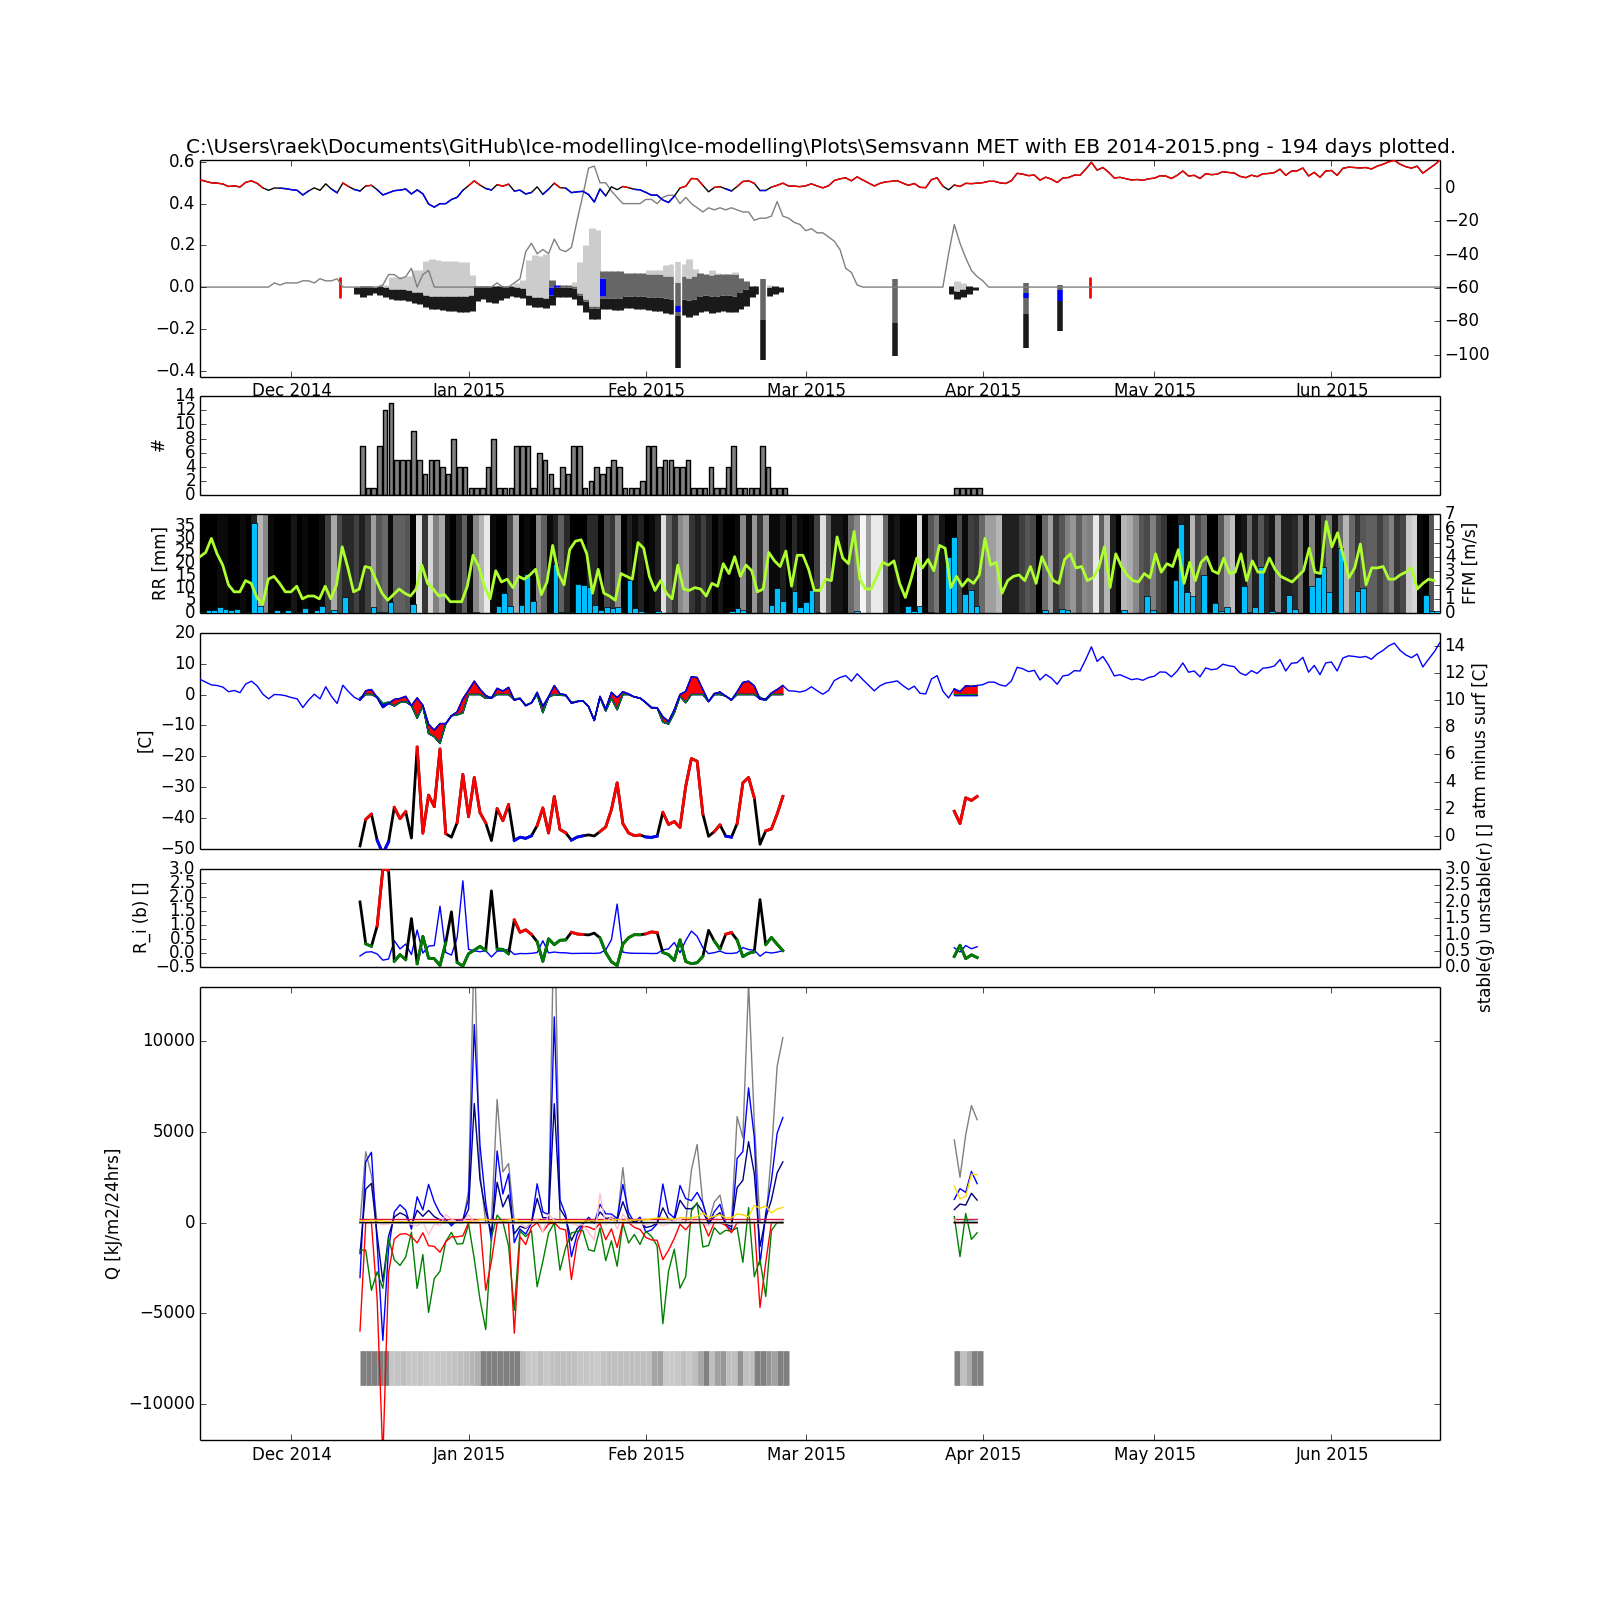
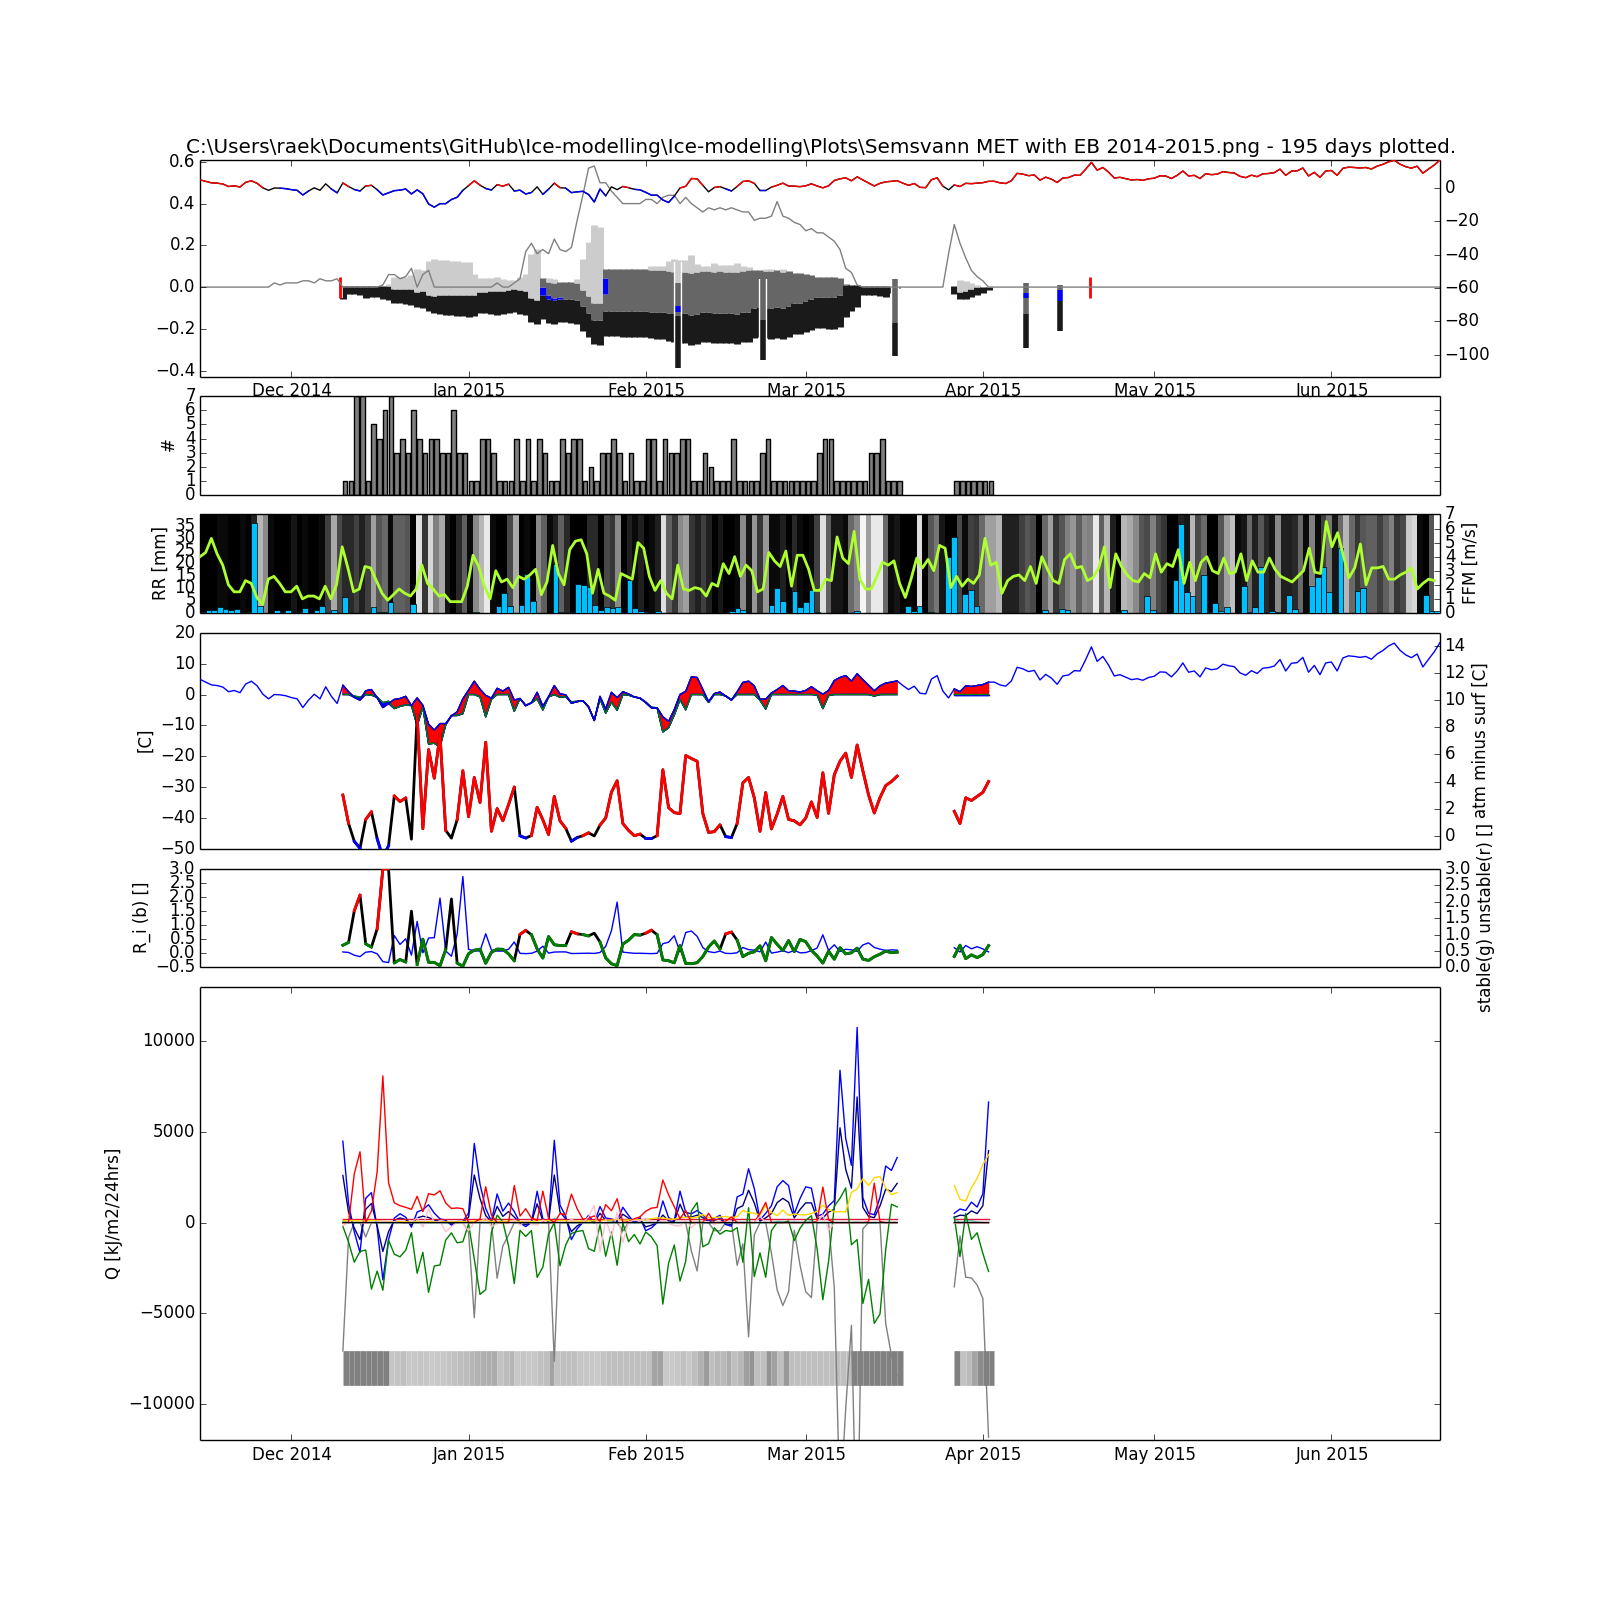
now with error in NR routine...

diff --git a/Ice-modelling/doenergybalance.py b/Ice-modelling/doenergybalance.py
@@ -192,7 +192,7 @@ def temp_surface_from_eb(
 
     # calculate energy balances around surface temp to se development.
     debug = False
-    #if (ice_column.date).date() == dt.date(2013, 2, 24): debug = True
+    if (ice_column.date).date() == dt.date(2012, 12, 16):    debug = True
     if debug == True:
         import numpy as np
         temps_sfc = np.linspace(temp_sfc-10., temp_sfc+10.)
@@ -231,6 +231,7 @@ def temp_surface_from_eb(
             num_iterations += 1
             eb_condition = eb
 
+
     if iteration_method == "Newton-Raphson":
 
         temp_prev = temp_sfc
@@ -243,7 +244,50 @@ def temp_surface_from_eb(
         d_eb = (eb-eb_prev)/(temp-temp_prev)
         eb_sign = abs(eb)/eb
 
-        eb_condition = eb_prev
+        while abs(eb_condition) > error:
+
+            # Update previous iteration values
+            eb_sign_prev = abs(eb_prev)/eb_prev
+            temp_temp_prev = temp_prev
+            temp_prev = temp
+            eb_prev = eb
+            d_eb_prev = d_eb
+
+            # if eb sign changes, half the temp step and get new eb
+            if eb_sign_prev != eb_sign:
+                temp = (temp_prev + temp_temp_prev)/2
+
+            # else use the Newton Raphson with derivative
+            else:
+                temp = temp_prev - eb_prev/d_eb_prev
+
+            eb = energy_balance_from_temp_sfc_value(utm33_x, utm33_y, ice_column, temp_atm, prec, prec_snow, albedo_prim, time_span_in_sec, temp_surface=temp, age_factor_tau=age_factor_tau, cloud_cover=cloud_cover, wind=wind, pressure_atm=pressure_atm)
+            eb_sign = abs(eb)/eb
+            d_eb = (eb-eb_prev)/(temp-temp_prev)
+
+            num_iterations += 1
+            eb_condition = eb
+
+        # Get the full object. Note that in earlier steps only the energy balance value is requested.
+        eb_obj = energy_balance_from_temp_sfc(
+            utm33_x, utm33_y, ice_column, temp_atm, prec, prec_snow, albedo_prim, time_span_in_sec,
+            temp_surface=temp, age_factor_tau=age_factor_tau, cloud_cover=cloud_cover, wind=wind,
+            pressure_atm=pressure_atm)
+
+
+    if iteration_method == "Newton-Raphson-II":
+
+        temp_prev = temp_sfc
+        eb_prev = energy_balance_from_temp_sfc_value(utm33_x, utm33_y, ice_column, temp_atm, prec, prec_snow, albedo_prim, time_span_in_sec, temp_surface=temp_prev, age_factor_tau=age_factor_tau, cloud_cover=cloud_cover, wind=wind, pressure_atm=pressure_atm)
+
+        # if eb is positive, to much energy is coming inn and thus the surface temp is to low.
+        delta_t = eb_prev/50000
+        temp = temp_prev + delta_t
+        eb = energy_balance_from_temp_sfc_value(utm33_x, utm33_y, ice_column, temp_atm, prec, prec_snow, albedo_prim, time_span_in_sec, temp_surface=temp, age_factor_tau=age_factor_tau, cloud_cover=cloud_cover, wind=wind, pressure_atm=pressure_atm)
+        d_eb = (eb-eb_prev)/(temp-temp_prev)
+        eb_sign = abs(eb)/eb
+
+        #eb_condition = eb_prev
 
         while abs(eb_condition) > error:
 
@@ -259,24 +303,21 @@ def temp_surface_from_eb(
                 melting = True
                 # calculate new eb with temp equalz freezing
                 temp = 0.
-                eb = energy_balance_from_temp_sfc_value(utm33_x, utm33_y, ice_column, temp_atm, prec, prec_snow, albedo_prim, time_span_in_sec, temp_surface=temp, age_factor_tau=age_factor_tau, cloud_cover=cloud_cover, wind=wind, pressure_atm=pressure_atm)
-                eb_sign = abs(eb)/eb
-                d_eb = (eb-eb_prev)/(temp-temp_prev)
+
             else:
                 melting = False
+
                 # if eb sign changes, half the temp step and get new eb
                 if eb_sign_prev != eb_sign:
                     temp = (temp_prev + temp_temp_prev)/2
-                    eb = energy_balance_from_temp_sfc_value(utm33_x, utm33_y, ice_column, temp_atm, prec, prec_snow, albedo_prim, time_span_in_sec, temp_surface=temp, age_factor_tau=age_factor_tau, cloud_cover=cloud_cover, wind=wind, pressure_atm=pressure_atm)
-                    eb_sign = abs(eb)/eb
-                    d_eb = (eb-eb_prev)/(temp-temp_prev)
 
                 # else use the Newton Raphson with derivative
                 else:
                     temp = temp_prev - eb_prev/d_eb_prev
-                    eb = energy_balance_from_temp_sfc_value(utm33_x, utm33_y, ice_column, temp_atm, prec, prec_snow, albedo_prim, time_span_in_sec,  temp_surface=temp, age_factor_tau=age_factor_tau, cloud_cover=cloud_cover, wind=wind, pressure_atm=pressure_atm)
-                    eb_sign = abs(eb)/eb
-                    d_eb = (eb-eb_prev)/(temp-temp_prev)
+
+            eb = energy_balance_from_temp_sfc_value(utm33_x, utm33_y, ice_column, temp_atm, prec, prec_snow, albedo_prim, time_span_in_sec, temp_surface=temp, age_factor_tau=age_factor_tau, cloud_cover=cloud_cover, wind=wind, pressure_atm=pressure_atm)
+            eb_sign = abs(eb)/eb
+            d_eb = (eb-eb_prev)/(temp-temp_prev)
 
             num_iterations += 1
             eb_condition = eb
@@ -297,8 +338,9 @@ def temp_surface_from_eb(
     eb_obj.add_iterations(num_iterations)
 
     # transfer energy to surface melt if we have melting conditions
-    if eb_obj.temp_surface == 0.:
-        eb_obj.add_surface_melt(-eb_obj.EB)
+    if eb_obj.temp_surface > 0.:
+        eb_obj.add_surface_melt(-1 * eb_obj.EB)
+        eb_obj.temp_surface = 0.
         eb_obj.EB = 0.
     else:
         eb_obj.add_surface_melt(0.)
@@ -661,19 +703,21 @@ def get_sensible_and_latent_heat(temp_atm, temp_surface, time_span_in_sec, ice_c
     if wind is None:
         wind = const.avg_wind_const
 
-    c_air = const.c_air         # specific heatcapacity air
-    rho_air = const.rho_air     # density of air
-    zu = 10                     # Høyde på vind målinger
-    zt = 10                     # Høyde på lufttemperatur målinger
-    zm = const.z_snow           # ruhetsparameter for snø
+    c_air = const.c_air             # specific heatcapacity air
+    rho_air = const.rho_air         # density of air
+    k = const.von_karmans_const     # von Karmans konstant
+    zu = 10                         # Høyde på vind målinger
+    zt = 10                         # Høyde på lufttemperatur målinger
+    #z_0 = const.z_snow              # ruhetsparameter for snø
+    z_0 = ice_column.column[0].get_surface_roughness()
+    z_tau = z_0 * 10**-3            # surf roughness for sensible heat
     d = ice_column.get_snow_height()    # Zeroplane displecement for snow. I.e correction for snowdepth.
-    zh = const.z_vapour          # varme og damp ruhets
-    k = const.von_karmans_const  # von Karmans konstant
+    zh = const.z_vapour             # varme og damp ruhets
 
-    common = k**2/(log((zu-d)/zm, 10))/(log((zt-d)/zm, 10))
+    common = k**2/(log((zu-d)/z_0, 10))/(log((zu-d)/z_tau, 10))
 
     # Correction when temperature gradient near surface.
-    # Eqs 7-11 in "Modelling the snow surface temperature with a one-layer energybalance model"
+    # Eqs 7-11 in "Modelling the snow surface temperature with a one-layer energy balance model"
     # Richardsonns number
     R_i = const.g * zu * (temp_atm-temp_surface) / (0.5 * (temp_atm + temp_surface - const.absolute_zero*2) * wind**2)
 

diff --git a/Ice-modelling/ice.py b/Ice-modelling/ice.py
@@ -49,6 +49,9 @@ class IceColumn:
         """
         self.metadata[key] = value
 
+    def remove_metadata(self):
+        self.metadata.clear()
+
 
     def set_water_line(self, water_line_inn):
         self.water_line = water_line_inn
@@ -87,6 +90,17 @@ class IceColumn:
         :return:
         '''
         self.date = self.date + datetime.timedelta(seconds=time_step)
+
+
+    def remove_time(self):
+        """
+        When using observations as initial values the observations normaly have a time.
+        For further modelling the dayly values are calculatet so the hour and minutes can be removed.
+        :return:
+        """
+        new_time = self.date.replace(hour=00, minute=0)
+        self.date = new_time
+        return
 
 
     def merge_and_remove_excess_layers(self):
@@ -689,7 +703,7 @@ class IceColumn:
 class IceLayer:
     '''
     height      float in m
-    type       string
+    type        string
     temp        float in C
     '''
 
@@ -787,9 +801,21 @@ class IceLayer:
         else: return -1
 
 
-    def get_thermal_diffusivity(self):
-        """returns heat capacity given the type of layer
+    def get_surface_roughness(self):
+        # Surface roughness [m] as used to calculate turbulent fluxes
+        if self.type == 'new_snow': return const.z_new_snow
+        elif self.type == 'snow': return const.z_snow
+        elif self.type == 'drained_snow': return const.z_drained_snow
+        elif self.type == 'slush': return const.z_slush
+        elif self.type == 'slush_ice': return const.z_slush_ice
+        elif self.type == 'black_ice': return const.z_black_ice
+        elif self.type == 'water': return const.z_water
+        elif self.type == 'unknown': return const.z_black_ice
+        else: return -1
 
+
+    def get_thermal_diffusivity(self):
+        """returns Thermal diffusivity given the type of layer
         Thermal diffusivity (alpha) [m^2/sek]
 
             alpha = k / rho / c
@@ -799,7 +825,6 @@ class IceLayer:
             c   is specific heat capacity (J/(kg·K))
 
         From https://en.wikipedia.org/wiki/Thermal_diffusivity
-
         """
 
         if self.type == 'new_snow':         return const.k_new_snow     /self.density/   const.c_snow

diff --git a/Ice-modelling/doicethickness.py b/Ice-modelling/doicethickness.py
@@ -8,6 +8,7 @@ import doenergybalance as deb
 import ice as ice
 import constants as const
 import weather as we
+import datetime as dt
 
 
 def get_ice_thickness_from_energy_balance(
@@ -42,8 +43,8 @@ def get_ice_thickness_from_energy_balance(
     else:
         energy_balance = deb.temp_surface_from_eb(
             utm33_x, utm33_y, ice_column, temp_atm, prec, prec_snow, albedo_prim, time_span_in_sec,
-            error=1., age_factor_tau=age_factor_tau, cloud_cover=cloud_cover, wind=wind, pressure_atm=pressure_atm,
-            iteration_method="Newton-Raphson")
+            error=100., age_factor_tau=age_factor_tau, cloud_cover=cloud_cover, wind=wind, pressure_atm=pressure_atm,
+            iteration_method="Newton-Raphson-II")
 
         surface_temp = energy_balance.temp_surface
         out_column = None
@@ -57,6 +58,9 @@ def get_ice_thickness_from_energy_balance(
                 ice_column, time_span_in_sec, prec_snow, surface_temp, melt_energy=melt_energy)
         else:
             print "get_ice_thickness_from_energy_balance: Surface temp cant be above 0C in the method get_ice_thickness_from_energy_balance"
+
+    if (ice_column.date).date() == dt.date(2014, 2, 04):
+        debug = True
 
     return out_column, energy_balance
 
@@ -197,7 +201,7 @@ def get_ice_thickness_from_surface_temp(ic, time_step, dh_snow, temp, melt_energ
                 else:
                     # energy available to melt used with latent heat of fusion (delta_h = Q/L/rho)
                     L_ice = const.L_black_ice/1000.    # Joule to Kilo Joule
-                    dh = const.melt_energy_coefficient * -1 * melt_energy / L_ice / ic.column[0].density * time_step/24/60/60
+                    dh = -1 * melt_energy / L_ice / ic.column[0].density * time_step/24/60/60
 
                     # if layer is thinner than total melting the layer is removed and the rest of melting occurs
                     # in the layer below for the reminder of time. melting (dh) and time are proportional in the degreeday equation

diff --git a/Ice-modelling/runIceThickness.py b/Ice-modelling/runIceThickness.py
@@ -27,6 +27,8 @@ def calculateIceCoverSimple(inn_column, date, temp, sno, cloud_cover=None):
 
     icecover = []
     timestep = 60*60*24     # fixed timestep of 24hrs given in seconds
+    inn_column.remove_metadata()
+    inn_column.remove_time()
     icecover.append(copy.deepcopy(inn_column))
 
     for i in range(0, len(date), 1):
@@ -59,6 +61,8 @@ def calculateIceCoverEB(utm33_x, utm33_y, inn_column, date, temp_atm, prec, prec
 
     icecover = []
     time_span_in_sec = 60*60*24     # fixed timestep of 24hrs given in seconds
+    inn_column.remove_metadata()
+    inn_column.remove_time()
     icecover.append(copy.deepcopy(inn_column))
     energy_balance = []
 
@@ -89,10 +93,12 @@ def calculateIceCoverEB(utm33_x, utm33_y, inn_column, date, temp_atm, prec, prec
 def calculateIceCoverEB2(utm33_x, utm33_y, date, temp_atm, prec, prec_snow, cloud_cover, wind=None, inn_column=None):
 
     if inn_column is None:
-        inn_column = ice.IceColumn(date[0], []),
+        inn_column = ice.IceColumn(date[0], [])
 
     icecover = []
     time_span_in_sec = 60*60*24     # fixed timestep of 24hrs given in seconds
+    inn_column.remove_metadata()
+    inn_column.remove_time()
     icecover.append(copy.deepcopy(inn_column))
     energy_balance = []
 

diff --git a/Ice-modelling/constants.py b/Ice-modelling/constants.py
@@ -78,12 +78,14 @@ c_slush = (c_water + c_ice)/2   # Assume slush is half/half water and ice
 # Z_black_ice = Z_snow * 3        # density is 3 times larger
 # Z_slush_ice = Z_black_ice
 
-# Surface roughness [m] as used to calculate turbulent fluxes
-z_new_snow
+# Surface roughness [m] for momentum as used to calculate turbulent fluxes
 z_snow = 10**-3            # surface roughness for snow
-z_slush_ice = 0.
-z_black_ice = 0.
-z_water = 0.
+z_new_snow = z_snow
+z_drained_snow = z_snow
+z_black_ice = 10**-4
+z_slush_ice = z_black_ice
+z_water = z_black_ice
+z_slush = z_water                #
 z_vapour = 2.*10**-4
 
 
@@ -101,10 +103,6 @@ meltingcoeff_snow = -0.10 /(60*60*24) / 5       # 10cm melting pr day at 5degC
 meltingcoeff_slush_ice = -0.04 /(60*60*24) / 5  # 4cm melting pr day at 5degC
 meltingcoeff_slush = meltingcoeff_slush_ice*2   # slush is partly melted
 meltingcoeff_black_ice = -0.02 /(60*60*24) / 5  # 2cm melting pr day at 5degC
-
-
-# melting energy from eb calculations when surface temp is forced to 0C is way to efficient.
-melt_energy_coefficient = 1.0
 
 
 # Conductance = thermal conductivity over height (k/h) [W/K/m2]

diff --git a/Ice-modelling/makePlots.py b/Ice-modelling/makePlots.py
@@ -319,10 +319,10 @@ def plotIcecoverEB(icecover, energy_balance, observed_ice, date, temp, snotot, f
             G.append(eb.G)
             s_inn.append(eb.s_inn)
             albedo.append(eb.albedo)
-            SC.append(eb.SC)
+            SC.append(-eb.SC)
             R_i.append(eb.R_i)
             stability_correction.append(eb.stability_correction)
-            CC.append(eb.CC)
+            CC.append(-eb.CC)
             SM.append(eb.SM)
 
 
